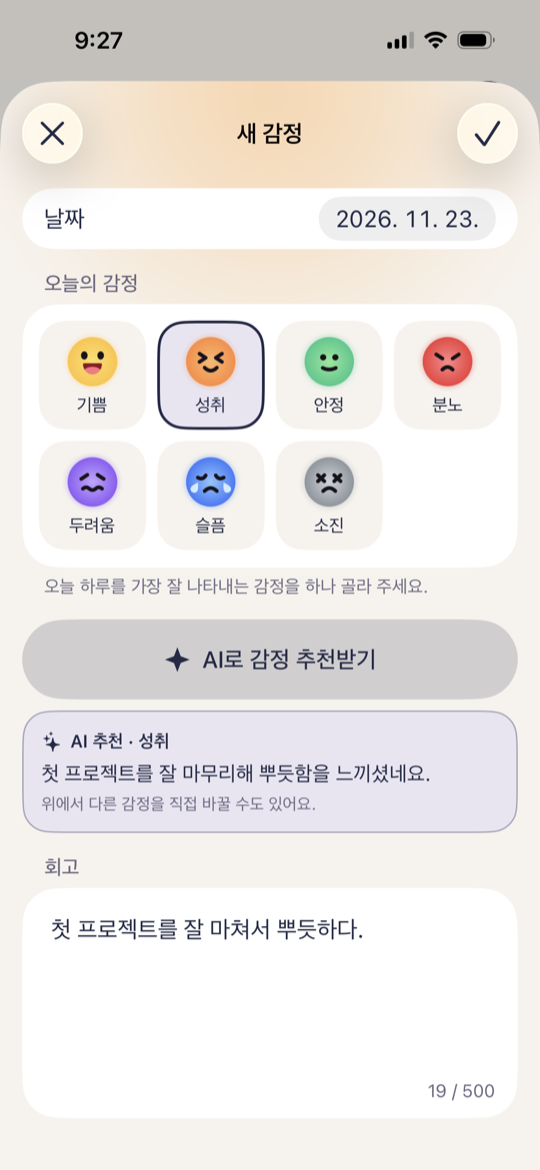
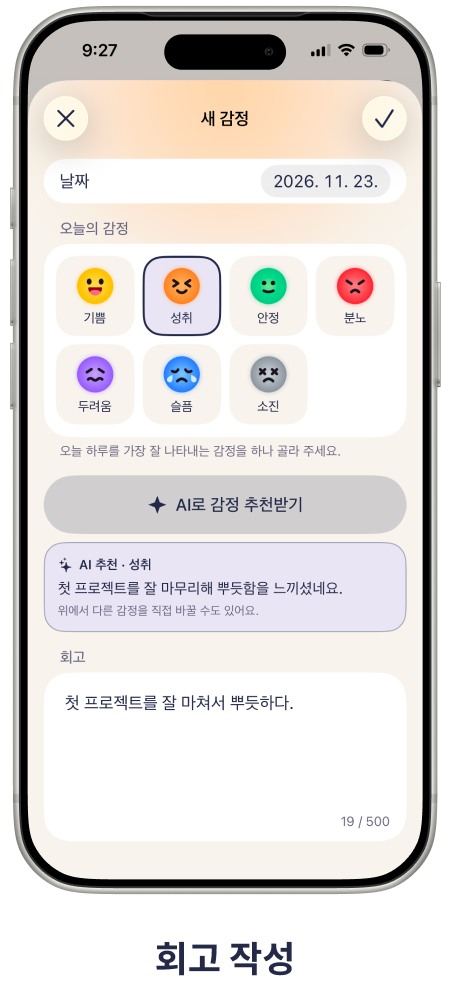
docs: improve README screenshots and table layout
- 대표 앱 화면 5장을 3개 + 2개 두 줄로 배치하고 이미지 폭을 통일
- 더 선명한 앱 화면 이미지로 교체 (450x984)
- 팀원 소개 표를 이름·역할이 한 줄로 나오고 주요 업무가 2줄이 되도록 수정
- 기술 스택 표의 첫 칸이 줄바꿈되지 않도록 수정
- 데이터 저장 항목에 ERD 문서 링크 추가

diff --git a/README.md b/README.md
@@ -21,22 +21,33 @@
 
 ## 대표 앱 화면
 
+<div align="center">
+
 <table>
   <tr>
-    <td align="center"><img src="docs/images/01-calendar.png" width="165" alt="월간 감정 달력" /></td>
-    <td align="center"><img src="docs/images/02-write.png" width="165" alt="회고 작성과 AI 감정 추천" /></td>
-    <td align="center"><img src="docs/images/03-detail.png" width="165" alt="회고 상세" /></td>
-    <td align="center"><img src="docs/images/04-statistics.png" width="165" alt="주간 통계와 AI 리포트" /></td>
-    <td align="center"><img src="docs/images/05-dark.png" width="165" alt="다크 모드" /></td>
+    <td align="center" width="270"><img src="docs/images/01-calendar.png" width="250" alt="달력 · 이 달의 감정" /></td>
+    <td align="center" width="270"><img src="docs/images/02-write.png" width="250" alt="회고 작성" /></td>
+    <td align="center" width="270"><img src="docs/images/03-detail.png" width="250" alt="회고 상세" /></td>
   </tr>
   <tr>
-    <td valign="top" align="center"><b>월간 감정 달력</b><br/>날짜별 감정 아우라와 최다 감정 요약, 하단 범례</td>
-    <td valign="top" align="center"><b>회고 작성 · AI 추천</b><br/>감정 선택, AI 추천 감정과 이유, 500자 입력</td>
-    <td valign="top" align="center"><b>회고 상세</b><br/>감정 배경과 작성 일시, 회고 전문, 편집·삭제 메뉴</td>
-    <td valign="top" align="center"><b>주간 통계 · AI 리포트</b><br/>감정 분포 막대 그래프, 주간 한마디, 6단계 AI 리포트</td>
-    <td valign="top" align="center"><b>다크 모드</b><br/>같은 화면을 다크 테마로 표시</td>
+    <td valign="top" align="center" width="270">날짜별 감정 아우라와<br/>최다 감정 요약, 하단 범례</td>
+    <td valign="top" align="center" width="270">감정 선택, AI 추천 감정과 이유,<br/>500자 입력</td>
+    <td valign="top" align="center" width="270">감정 배경과 작성 일시,<br/>회고 전문, 편집·삭제 메뉴</td>
   </tr>
 </table>
+
+<table>
+  <tr>
+    <td align="center" width="270"><img src="docs/images/04-statistics.png" width="250" alt="감정 돌아보기" /></td>
+    <td align="center" width="270"><img src="docs/images/05-dark.png" width="250" alt="다크 모드 지원" /></td>
+  </tr>
+  <tr>
+    <td valign="top" align="center" width="270">감정 분포 막대 그래프, 주간 한마디,<br/>6단계 AI 리포트</td>
+    <td valign="top" align="center" width="270">같은 화면을 다크 테마로 표시</td>
+  </tr>
+</table>
+
+</div>
 
 > 화면의 기록은 시연을 위해 넣은 예시 데이터입니다.
 
@@ -100,6 +111,8 @@
 | **`@AppStorage`** | `"hasSeenWelcome"` (`Bool`) | 최초 실행 온보딩 완료 여부 저장 |
 | **`@AppStorage`** | `"appTheme"` (`AppTheme`) | 사용자 화면 테마 설정 저장 (`system`, `light`, `dark`) |
 
+> 데이터 모델의 자세한 구조(ERD)는 [`docs/ERD.md`](docs/ERD.md)를 참고하세요.
+
 ## UI/UX · 접근성 · 성능 최적화
 
 ### SwiftUI 네이티브 컴포넌트 및 다크 모드
@@ -124,13 +137,36 @@
 
 ## 기술 스택 및 의존 라이브러리
 
-| 구분 | 내용 |
-| :--- | :--- |
-| **언어 / UI** | Swift 5.0, SwiftUI |
-| **데이터 영구 저장** | SwiftData, `@AppStorage` (`UserDefaults`) |
-| **상태 관리** | `@Query`, `Observation` (`@Observable`), `Swift Concurrency` (`async/await`, `Task`) |
-| **네트워킹 / AI** | `URLSession` 기반 OpenAI Chat Completions API (`response_format: json_schema`, `strict: true`, 모델 `gpt-6-luna`) |
-| **외부 의존 라이브러리** | **없음 (Zero Third-Party Dependencies)** — SPM, CocoaPods, Carthage 없이 Apple 순정 프레임워크만 사용 |
+<table>
+  <thead>
+    <tr>
+      <th width="190">구분</th>
+      <th>내용</th>
+    </tr>
+  </thead>
+  <tbody>
+    <tr>
+      <td nowrap><b>언어 / UI</b></td>
+      <td>Swift 5.0, SwiftUI</td>
+    </tr>
+    <tr>
+      <td nowrap><b>데이터 영구 저장</b></td>
+      <td>SwiftData, <code>@AppStorage</code> (<code>UserDefaults</code>)</td>
+    </tr>
+    <tr>
+      <td nowrap><b>상태 관리</b></td>
+      <td><code>@Query</code>, <code>Observation</code> (<code>@Observable</code>), <code>Swift Concurrency</code> (<code>async/await</code>, <code>Task</code>)</td>
+    </tr>
+    <tr>
+      <td nowrap><b>네트워킹 / AI</b></td>
+      <td><code>URLSession</code> 기반 OpenAI Chat Completions API (<code>response_format:&nbsp;json_schema</code>, <code>strict:&nbsp;true</code>, 모델 <code>gpt-6-luna</code>)</td>
+    </tr>
+    <tr>
+      <td nowrap><b>외부 의존 라이브러리</b></td>
+      <td><b>없음 (Zero Third-Party Dependencies)</b> — SPM·CocoaPods·Carthage 없이 Apple 기본 프레임워크만 사용</td>
+    </tr>
+  </tbody>
+</table>
 
 ## 설치 및 실행 방법
 
@@ -231,9 +267,39 @@ EstTeam5/
 
 ## 팀원 소개 및 역할 분담
 
-| 이름 | 역할 | 담당 파트 | 주요 업무 |
-| :--- | :---: | :---: | :--- |
-| **장주진** | 팀장 | 개발 총괄 / AI 연동 | GitHub 저장소 관리, PR·코드 리뷰 총괄, 프로젝트 뼈대·SwiftData 모델·API 키 설정, 테마·Dynamic Type 지원·코드 정리, AI 감정 추천·OpenAI 공통 클라이언트 구현 |
-| **백충훈** | 팀원 | 핵심 화면 · 로직 개발 | 월간 감정 캘린더·회고 작성·상세 화면 구현, 통계 탭 구현·감정 워시(배경 번짐), 캘린더·회고 계산 로직 분리·코드 정리, 사용자 피드백 수렴·주간 일정(WBS) 조율 |
-| **임사랑** | 팀원 | 통계 · AI 리포트 / 문서화 | AI 주간 회고 리포트 구현·통계 로직 분리, 감정 분류 체계 기획·통계 화면 구조 기획, 회고 목록 내비게이션·통계 정합성 테스트, 회의록·README·발표자료 문서화 |
-| **전효정** | 팀원 | UI/UX · 디자인 총괄 | Figma UI/UX·디자인 시스템·디자인 총괄, 7종 감정 아우라·앱 아이콘·로고 에셋, 서비스 기획·서비스 구조 기획, 발표자료 디자인·제작 |
+<table width="100%">
+  <thead>
+    <tr>
+      <th width="70">이름</th>
+      <th width="50">역할</th>
+      <th width="130">담당 파트</th>
+      <th>주요 업무</th>
+    </tr>
+  </thead>
+  <tbody>
+    <tr>
+      <td align="center" nowrap><b>장주진</b></td>
+      <td align="center" nowrap>팀장</td>
+      <td>개발 총괄 / AI 연동</td>
+      <td>GitHub 저장소 관리·PR/코드 리뷰 총괄, 프로젝트 뼈대·SwiftData 모델·API 키 설정<br/>테마·Dynamic Type 지원·코드 정리, AI 감정 추천·OpenAI 공통 클라이언트 구현</td>
+    </tr>
+    <tr>
+      <td align="center" nowrap><b>백충훈</b></td>
+      <td align="center" nowrap>팀원</td>
+      <td>핵심 화면 · 로직 개발</td>
+      <td>월간 감정 캘린더·회고 작성·상세 화면 구현, 통계 탭 구현·감정 워시(배경 번짐) 토큰<br/>캘린더·회고 계산 로직 분리·코드 정리, 사용자 피드백 수렴·주간 일정(WBS) 조율</td>
+    </tr>
+    <tr>
+      <td align="center" nowrap><b>임사랑</b></td>
+      <td align="center" nowrap>팀원</td>
+      <td>통계 · AI 리포트 /<br/>문서화</td>
+      <td>AI 주간 회고 리포트 구현·통계 로직 분리, 감정 분류 체계·통계 화면 구조 기획<br/>회고 목록 내비게이션·통계 정합성 테스트, 회의록·README·발표자료 문서화</td>
+    </tr>
+    <tr>
+      <td align="center" nowrap><b>전효정</b></td>
+      <td align="center" nowrap>팀원</td>
+      <td>UI/UX · 디자인 총괄</td>
+      <td>Figma UI/UX·디자인 시스템·디자인 총괄, 7종 감정 아우라·앱 아이콘·로고 에셋<br/>서비스 기획·서비스 구조 기획, 발표자료 디자인·제작·앱 소개 영상 제작</td>
+    </tr>
+  </tbody>
+</table>
